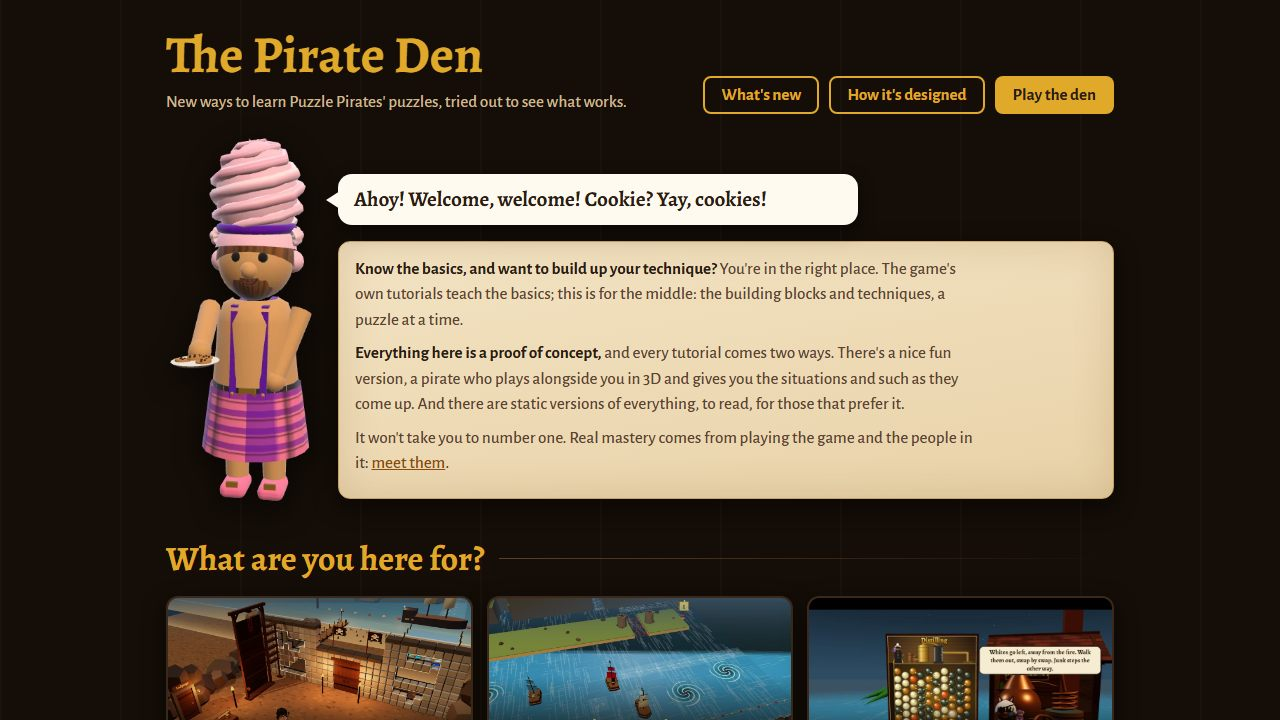
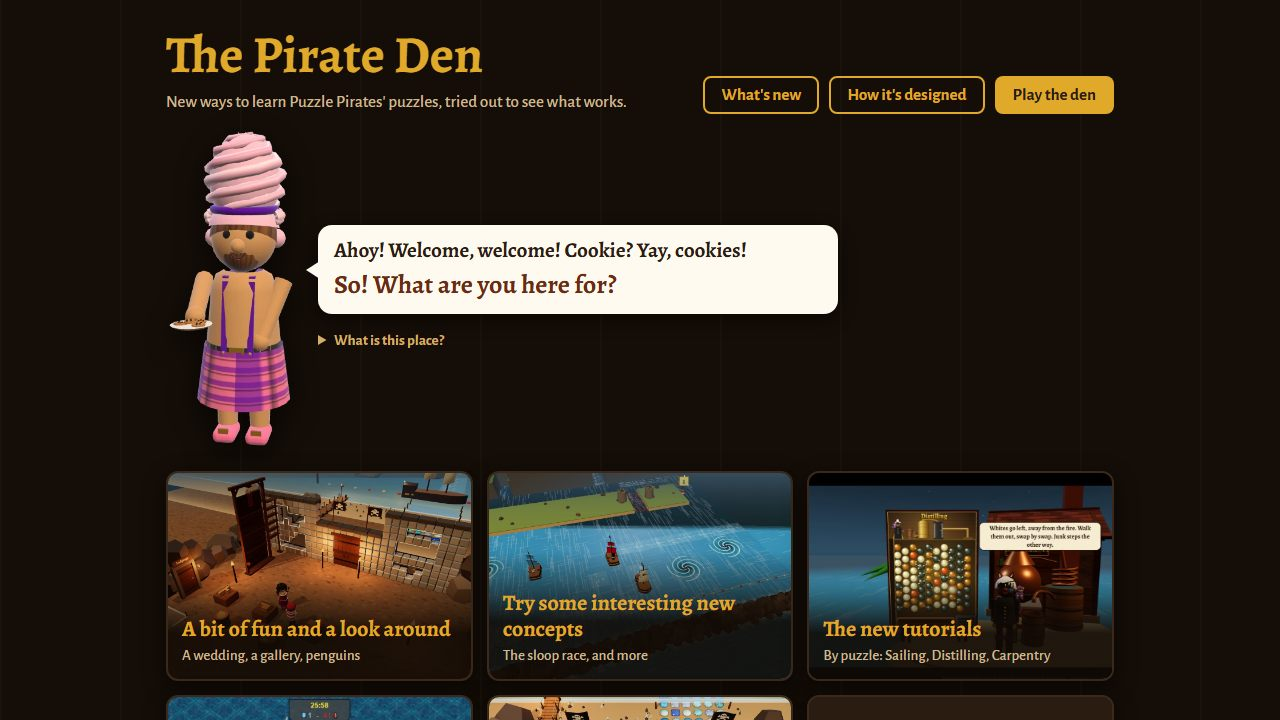
Pirate Den: the front page: Dachimpy's welcome and question first, what this place is tucked in an expander, the Global Cade Sim's picture, shorter words

diff --git a/index.html b/index.html
@@ -61,37 +61,36 @@
   .shots img, .pic img { width: 100%; height: auto; aspect-ratio: 16 / 9; object-fit: cover; transition: transform .25s; }
   .shots a:hover img, a.pic:hover img { transform: scale(1.02); }
 
-  /* Dachimpy at the door, a plate of cookies held out (their lines from src/lines/dachimpy.ts), and beside them
-     who the site's for: the intro. */
-  .welcome { display: grid; grid-template-columns: 150px minmax(0, 1fr); gap: 0 22px; align-items: end; margin-top: 20px; }
+  /* Dachimpy at the door, a plate of cookies held out (their lines from src/lines/dachimpy.ts), saying hello and
+     asking what you're here for; under it, tucked away, what this place is. Pictures straight after. */
+  .welcome { display: grid; grid-template-columns: 130px minmax(0, 1fr); gap: 0 22px; align-items: center; margin: 14px 0 22px; }
   .host { position: relative; margin: 0; }
-  .host img { width: 150px; height: auto; filter: drop-shadow(0 10px 14px rgba(0, 0, 0, 0.55)); }
+  .host img { width: 130px; height: auto; filter: drop-shadow(0 10px 14px rgba(0, 0, 0, 0.55)); }
   /* The cookie: over the plate in the picture, a click for one (and a "Yay!"). */
-  .cookie { position: absolute; left: 0; top: 52%; width: 62px; height: 38px; border: 0; padding: 0; background: none; cursor: pointer; border-radius: 50%; }
+  .cookie { position: absolute; left: 0; top: 52%; width: 54px; height: 34px; border: 0; padding: 0; background: none; cursor: pointer; border-radius: 50%; }
   .cookie:hover, .cookie:focus-visible { outline: 2px dashed var(--gold); outline-offset: 2px; }
   .crumb { position: absolute; width: 7px; height: 7px; border-radius: 50%; background: #b9752e; pointer-events: none; animation: crumb .9s ease-in forwards; }
   @keyframes crumb { to { transform: translate(var(--dx), 70px) rotate(200deg); opacity: 0; } }
   .bubble { position: relative; margin: 0 0 16px; padding: 12px 16px; max-width: 520px; background: #fffaf0; color: var(--ink); border-radius: 14px;
     font: 700 21px/1.3 'Alegreya', serif; box-shadow: 0 6px 18px rgba(0, 0, 0, 0.4); }
-  .bubble:empty { display: none; }
-  .bubble::after { content: ''; position: absolute; left: -12px; bottom: 16px; border: 9px solid transparent; border-right: 14px solid #fffaf0; border-left: 0; }
+  .bubble:not(.on) { display: none; }   /* (its words come from the lines file, by script) */
+  .bubble::after { content: ''; position: absolute; left: -12px; top: 50%; margin-top: -9px; border: 9px solid transparent; border-right: 14px solid #fffaf0; border-left: 0; }
   .bubble.yay { animation: yay .35s ease-out; }
   @keyframes yay { 40% { transform: scale(1.04); } }
-  .intro { margin: 0 0 6px; }
-  .intro p { margin: 0 2px 8px; }
+  #question { display: block; margin-top: 4px; font-size: 26px; color: var(--rust); }
+  .about { max-width: 520px; color: var(--dim); font-size: 15px; }
+  .about summary { cursor: pointer; color: #d4b06a; font-weight: 700; width: max-content; }
+  .about summary:hover { color: var(--gold); }
+  .about p { margin: 6px 2px 0; }
+  .about b { color: var(--cream); }
 
   /* What are you here for? The choices as big pictures, each a jump to its section below. */
   .choices { display: grid; gap: 14px; grid-template-columns: repeat(3, minmax(0, 1fr)); }
   .choice { position: relative; display: block; border-radius: 12px; overflow: hidden; border: 2px solid #3b2a1b; background: #2a1c11;
     box-shadow: 0 8px 24px rgba(0, 0, 0, 0.45); text-decoration: none; color: var(--cream); min-height: 210px; }
-  /* The Global Cade Sim's, no picture yet: a sea chart in CSS behind its words. */
-  .choice.chart { background: radial-gradient(circle at 70% 35%, rgba(255, 255, 255, 0.10) 0 14%, transparent 15%),
-    repeating-linear-gradient(0deg, rgba(255, 255, 255, 0.06) 0 1px, transparent 1px 28px), repeating-linear-gradient(90deg, rgba(255, 255, 255, 0.06) 0 1px, transparent 1px 28px),
-    linear-gradient(160deg, #1f5d7a, #123a52); }
-  .pic.chartpic { display: grid; place-items: center; aspect-ratio: 16 / 9; line-height: 1.2; text-decoration: none;
-    background: repeating-linear-gradient(0deg, rgba(255, 255, 255, 0.07) 0 1px, transparent 1px 24px), repeating-linear-gradient(90deg, rgba(255, 255, 255, 0.07) 0 1px, transparent 1px 24px), linear-gradient(160deg, #1f5d7a, #123a52); }
-  .pic.chartpic span { font: 700 26px 'Alegreya', serif; color: var(--gold); text-shadow: 0 2px 6px rgba(0, 0, 0, 0.6); }
-  .choice.chart::before { content: ''; position: absolute; left: 22%; top: 22%; width: 26px; height: 26px; border: 3px solid rgba(255, 255, 255, 0.35); border-radius: 50%; box-shadow: 70px 30px 0 -4px rgba(224, 169, 42, 0.5), 130px -6px 0 -6px rgba(255, 255, 255, 0.3); }
+  /* A picture shown whole, not cropped to 16:9 (the Global Cade Sim's, its controls along the bottom). */
+  .pic.whole img { aspect-ratio: auto; }
+  .choice.top img { object-position: top; }
   .choice img { position: absolute; inset: 0; width: 100%; height: 100%; object-fit: cover; transition: transform .3s; }
   .choice:hover img { transform: scale(1.04); }
   .choice span { position: absolute; left: 0; right: 0; bottom: 0; padding: 40px 14px 12px; background: linear-gradient(transparent, rgba(16, 10, 5, 0.92) 55%); }
@@ -161,9 +160,9 @@
     .talk { display: contents; }
     .host img { width: 92px; }
     .cookie { width: 40px; height: 26px; }
-    .bubble { font-size: 18px; margin: 0; }
-    .bubble::after { bottom: auto; top: 50%; margin-top: -9px; }
-    .intro { grid-column: 1 / -1; margin-top: 14px; }
+    .bubble { font-size: 17px; margin: 0; }
+    #question { font-size: 21px; }
+    .about { grid-column: 1 / -1; margin-top: 10px; }
     article.side { grid-template-columns: 1fr; }
     .cards { grid-template-columns: 1fr; }
     .shots.two { grid-template-columns: 1fr; }
@@ -200,22 +199,23 @@
       <button class="cookie" type="button" aria-label="Take a cookie" title="Take a cookie"></button>
     </figure>
     <div class="talk">
-      <p class="bubble" id="said" aria-live="polite"></p>
-      <article class="intro">
-        <p><b>Know the basics, and want to build up your technique?</b> You're in the right place. The game's own tutorials teach the basics; this is for the middle: the building blocks and techniques, a puzzle at a time.</p>
-        <p><b>Everything here is a proof of concept,</b> and every tutorial comes two ways. There's a nice fun version, a pirate who plays alongside you in 3D and gives you the situations and such as they come up. And there are static versions of everything, to read, for those that prefer it.</p>
-        <p>It won't take you to number one. Real mastery comes from playing the game and the people in it: <a href="#people">meet them</a>.</p>
-      </article>
+      <p class="bubble"><span id="said" aria-live="polite"></span><b id="question"></b></p>
+      <!-- Who it's for, tucked away (the user, 14 Nov: no "word block" first; "slightly hidden away so people can
+           click on it or expand it if they want it"). The fuller version is design.html's "Who it's for". -->
+      <details class="about">
+        <summary>What is this place?</summary>
+        <p><b>For the middle:</b> you know the basics (the game's own tutorials teach those) and want the techniques, a puzzle at a time.</p>
+        <p><b>Proofs of concept,</b> each tutorial two ways: a fun 3D one, a pirate playing alongside you, and a static one to read.</p>
+        <p><b>Real mastery</b> comes from the game and its people: <a href="#people">meet them</a>.</p>
+      </details>
     </div>
   </section>
 
-  <h2 class="ask" id="choose">What are you here for?</h2>
-
-  <nav class="choices" aria-label="What are you here for?">
+  <nav class="choices" id="choose" aria-label="What are you here for?">
     <a class="choice" href="#fun"><img src="changelog/den-wall.jpg" width="1280" height="720" alt=""><span><b>A bit of fun and a look around</b><i>A wedding, a gallery, penguins</i></span></a>
     <a class="choice" href="#concepts"><img src="changelog/race-field.jpg" width="1280" height="720" alt=""><span><b>Try some interesting new concepts</b><i>The sloop race, and more</i></span></a>
     <a class="choice" href="#tutorials"><img src="changelog/helium-lesson.jpg" width="800" height="600" alt=""><span><b>The new tutorials</b><i>By puzzle: Sailing, Distilling, Carpentry</i></span></a>
-    <a class="choice chart" href="#cadesim"><span><b>Want to play the new blockade sim?</b><i>The Global Cade Sim</i></span></a>
+    <a class="choice top" href="#cadesim"><img src="changelog/global-cade-sim.jpg" width="880" height="583" alt=""><span><b>Want to play the new blockade sim?</b><i>The Global Cade Sim</i></span></a>
     <a class="choice" href="#practice"><img src="changelog/gun-tower.jpg" width="1280" height="720" alt=""><span><b>I just want to practice a puzzle</b><i>Fair enough. Here's where</i></span></a>
     <a class="choice" href="#people"><img src="changelog/wardrobe.jpg" width="1280" height="720" alt=""><span><b>Meet real pirates</b><i>The heart of the game</i></span></a>
   </nav>
@@ -294,6 +294,8 @@
 
   <h2 id="tutorials">The new tutorials, by puzzle</h2>
 
+  <p class="lead">Each comes two ways: in 3D with a pirate playing alongside you, or to read at your own pace.</p>
+
   <article>
     <h3>Sailing</h3>
     <p>Tzz blows up balloon animals and plays them onto a real Sailing board, showing you how a chain is really built, a step at a time, the plan marked on the board before the pieces go in. Then it's your go.</p>
@@ -336,7 +338,7 @@
   <h2 id="cadesim">Want to play the new blockade sim?</h2>
 
   <article class="side">
-    <a class="pic chartpic" href="https://www.globalcadesim.com/#/lobby/36" target="_blank" rel="noopener"><span>Global Cade Sim</span></a>
+    <a class="pic whole" href="https://www.globalcadesim.com/#/lobby/36" target="_blank" rel="noopener"><img src="changelog/global-cade-sim.jpg" width="880" height="583" loading="lazy" alt="A blockade in the Global Cade Sim: Dachimpy's ship and a bot's among whirlpools, rocks and flags, the score and clock at the top, the move controls and chat along the bottom"></a>
     <div>
       <p><b>The Global Cade Sim</b>, made by <span data-maker>a fellow pirate</span>: real blockades, with real people. It's the successor to Dachimpy's old Blockade Simulator, all grown up, and the place to practise Battle Navigation and blockades with other pirates.</p>
       <p class="try"><a class="play" href="https://www.globalcadesim.com/#/lobby/36" target="_blank" rel="noopener">Play the Global Cade Sim</a></p>
@@ -348,10 +350,10 @@
   <article class="side">
     <a class="pic" href="den.html?at=gun-tower"><img src="changelog/gun-tower.jpg" width="1280" height="720" loading="lazy" alt="The gun tower's deck as a Gunnery board: four cannons, crates of stores, a powder barrel and buckets"></a>
     <div>
-      <p>Fair enough! There are a few you can play for fun in the den: Carpentry on its wall, <a href="den.html?at=gun-tower">Gunnery in the gun tower</a>, Bilge and Sailing once <a href="den.html?at=sea">you're out on the sloop</a>, and more on the islands.</p>
-      <p>This site's really about learning, though, so its puzzles come with places and pirates round them. If you just want plain 2D practice, Puzzle Practice has a whole bunch of puzzles ready to go. Here you go:</p>
+      <p>Fair enough! The den has a few to play for fun: Carpentry on its wall, <a href="den.html?at=gun-tower">Gunnery in the gun tower</a>, Bilge and Sailing <a href="den.html?at=sea">out on the sloop</a>.</p>
+      <p>For plain 2D practice of lots of puzzles, Puzzle Practice is the place. Here you go:</p>
       <p class="try"><a class="play ghost" href="https://puzzle-practice.github.io/Puzzle_Practice/#/" target="_blank" rel="noopener">Puzzle Practice</a></p>
-      <p>And for blockades, there's <a href="#cadesim">the Global Cade Sim</a>.</p>
+      <p>And for blockades, <a href="#cadesim">the Global Cade Sim</a>.</p>
     </div>
   </article>
 
@@ -360,8 +362,8 @@
   <article class="side">
     <span class="pic"><img src="changelog/wardrobe.jpg" width="1280" height="720" loading="lazy" alt="A line-up of real pirates in their outfits: Tzz, Gravee, Dalnoth, a pirate in a bear hat, Dignity, Mischievious and Kikkit"></span>
     <div>
-      <p>This is a sociable game. The den is a bit of fun and a bit of stuff on the side, but everything is about the people: playing puzzles together. Every teacher here sends you on to them in the end. So go do it!</p>
-      <p>If you want a friendly community full of people ready to help you and have fun on the game, or to watch some real pirates play and talk to them, the Trophy Hunters' Discord is the go-to. And for real mastery, the top puzzlers' videos and streams are out there too, on YouTube and Twitch.</p>
+      <p>It's a sociable game: everything's about the people, playing puzzles together. So go do it!</p>
+      <p>For a friendly crowd ready to help and have fun, or to watch real pirates play and chat, the Trophy Hunters' Discord is the go-to. The top puzzlers stream on Twitch and YouTube too.</p>
       <p class="try"><a class="play" href="https://discord.gg/XtRHwP6XT" target="_blank" rel="noopener">The Trophy Hunters' Discord</a></p>
     </div>
   </article>
@@ -456,8 +458,11 @@
   // Dachimpy's hello, and a cookie on a click: their lines are src/lines/dachimpy.ts's, never written here.
   import { FRONT_PAGE, ANOTHER_COOKIE } from './js/lines/dachimpy.js';
   const said = document.getElementById('said'), host = document.querySelector('.host');
-  const say = (line) => { said.textContent = line; said.classList.remove('yay'); void said.offsetWidth; said.classList.add('yay'); };
+  const bubble = said.parentElement;
+  const say = (line) => { said.textContent = line; bubble.classList.remove('yay'); void bubble.offsetWidth; bubble.classList.add('yay'); };
+  bubble.classList.add('on');
   said.textContent = FRONT_PAGE.hello;
+  document.getElementById('question').textContent = FRONT_PAGE.question;
   document.getElementById('your-room').replaceChildren(...FRONT_PAGE.yourRoom.map((line) => Object.assign(document.createElement('p'), { textContent: line })));
   let cookies = 0;
   document.querySelector('.cookie').addEventListener('click', (e) => {

diff --git a/js/lines/dachimpy.js b/js/lines/dachimpy.js
@@ -158,6 +158,8 @@ export const GOODBYE = 'Byeee! Take a cookie for the road!';
 export const FRONT_PAGE = {
     hello: 'Ahoy! Welcome, welcome! Cookie? Yay, cookies!',
     cookie: 'Yay! There you go. Everyone who comes in gets one. House rule.',
+    /** Under the hello (and whatever cookie line's up), all the while, the big pictures straight below it. */
+    question: 'So! What are you here for?',
     /** Further down, under "A room of your own": what the den is for, a paragraph each (the user, 14 Nov: "you
         want your own adventure ... or room ... find me on Discord ... send me a link to your pirate page, and we
         can put a little room for you together"). */
@@ -205,7 +207,7 @@ export const CHARACTER = {
         { when: 'As you leave', says: [GOODBYE] },
         {
             when: 'On the site\'s front page, at the top, holding out a plate of cookies', says: FRONT_PAGE,
-            each: { hello: 'Their hello', cookie: 'Clicking the cookie (then the other cookies, in turn)', yourRoom: 'Under "A room of your own": what the den is for' },
+            each: { hello: 'Their hello', cookie: 'Clicking the cookie (then the other cookies, in turn)', question: 'Under it, all the while', yourRoom: 'Under "A room of your own": what the den is for' },
         },
     ],
 };

diff --git a/src/lines/dachimpy.ts b/src/lines/dachimpy.ts
@@ -180,6 +180,8 @@ export const GOODBYE = 'Byeee! Take a cookie for the road!';
 export const FRONT_PAGE = {
   hello: 'Ahoy! Welcome, welcome! Cookie? Yay, cookies!',
   cookie: 'Yay! There you go. Everyone who comes in gets one. House rule.',
+  /** Under the hello (and whatever cookie line's up), all the while, the big pictures straight below it. */
+  question: 'So! What are you here for?',
   /** Further down, under "A room of your own": what the den is for, a paragraph each (the user, 14 Nov: "you
       want your own adventure ... or room ... find me on Discord ... send me a link to your pirate page, and we
       can put a little room for you together"). */
@@ -228,7 +230,7 @@ export const CHARACTER: Character = {
     { when: 'As you leave', says: [GOODBYE] },
     {
       when: 'On the site\'s front page, at the top, holding out a plate of cookies', says: FRONT_PAGE,
-      each: { hello: 'Their hello', cookie: 'Clicking the cookie (then the other cookies, in turn)', yourRoom: 'Under "A room of your own": what the den is for' },
+      each: { hello: 'Their hello', cookie: 'Clicking the cookie (then the other cookies, in turn)', question: 'Under it, all the while', yourRoom: 'Under "A room of your own": what the den is for' },
     },
   ],
 };

diff --git a/LINES.md b/LINES.md
@@ -1620,6 +1620,7 @@ Buzzy, excited, great energy: "Yay, cookies!" first, and then, maybe, the dry li
 
 - *Their hello:* "Ahoy! Welcome, welcome! Cookie? Yay, cookies!"
 - *Clicking the cookie (then the other cookies, in turn):* "Yay! There you go. Everyone who comes in gets one. House rule."
+- *Under it, all the while:* "So! What are you here for?"
 - *Under "A room of your own": what the den is for:*
   - "Want a room of your own in the den? Ooh, yes! Let's make one!"
   - "The islands each bring something new: a mechanic, a tutorial, or a proper long adventure. And a room of your own is a lovely thing too. Got a character you love, or something to show off? Have it in 3D, in a gallery of your own."
